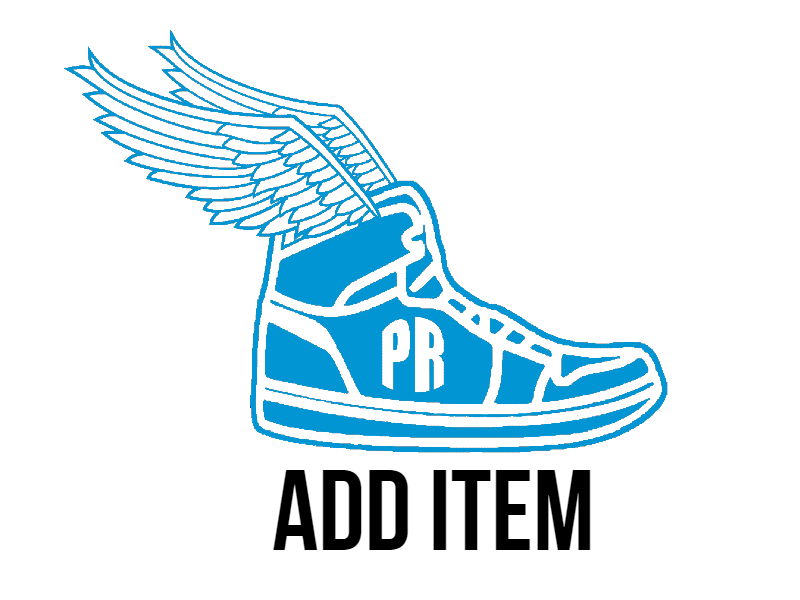
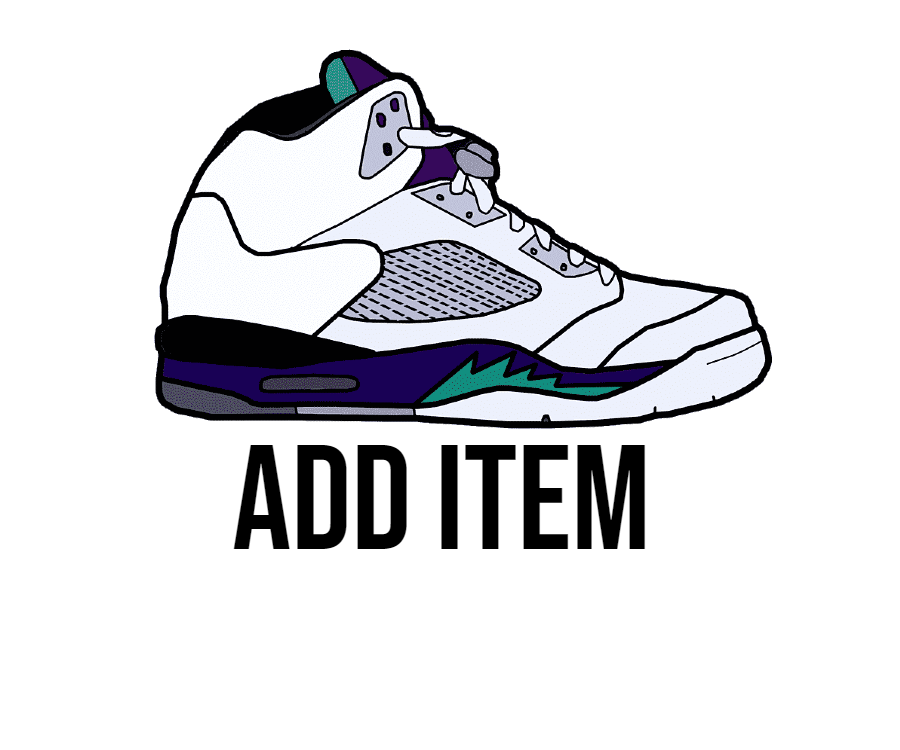
.

Changed region(s): [[0.0625, 0.06, 0.875, 0.93]]

diff --git a/profitapp/lib/inventoryPageFolder/addInventory.dart b/profitapp/lib/inventoryPageFolder/addInventory.dart
@@ -218,8 +218,8 @@ class AddInventoryPageState extends State<AddInventoryPage> {
                 key: _formKey,
                 child: ListView(children: [
                   Row(children: [
-                    SizedBox(width: SizeConfig.safeBlockHorizontal * 23),
-                    Image.asset('assets/additem.png', height: 150)
+                    SizedBox(width: SizeConfig.safeBlockHorizontal * 19),
+                    Image.asset('assets/additem.png', height: 170, width: 250)
                   ]),
                   backButton,
                   SizedBox(height: 100),

diff --git a/profitapp/lib/accountPageFolder/changepassword.dart b/profitapp/lib/accountPageFolder/changepassword.dart
@@ -143,7 +143,7 @@ class ChangePasswordState extends State<ChangePassword> {
               //firebase update password
               await currentUser.reauthenticateWithCredential(credential);
               currentUser.updatePassword(newPassword.text);
-              //sends user back to account apge
+              //sends user back to account page
               Navigator.of(context).pop();
             } on FirebaseAuthException catch (error) {
               setState(() {

diff --git a/profitapp/lib/accountPageFolder/aboutapp.dart b/profitapp/lib/accountPageFolder/aboutapp.dart
@@ -16,7 +16,7 @@ class AboutPageState extends State<AboutPage> {
             child:
                 Column(mainAxisAlignment: MainAxisAlignment.center, children: [
       Row(children: [
-        SizedBox(width: SizeConfig.safeBlockHorizontal * 17),
+        SizedBox(width: SizeConfig.safeBlockHorizontal * 27),
         Image.asset('assets/PRShoe.png', height: 150) //image asset for logo
       ]),
       Row(
